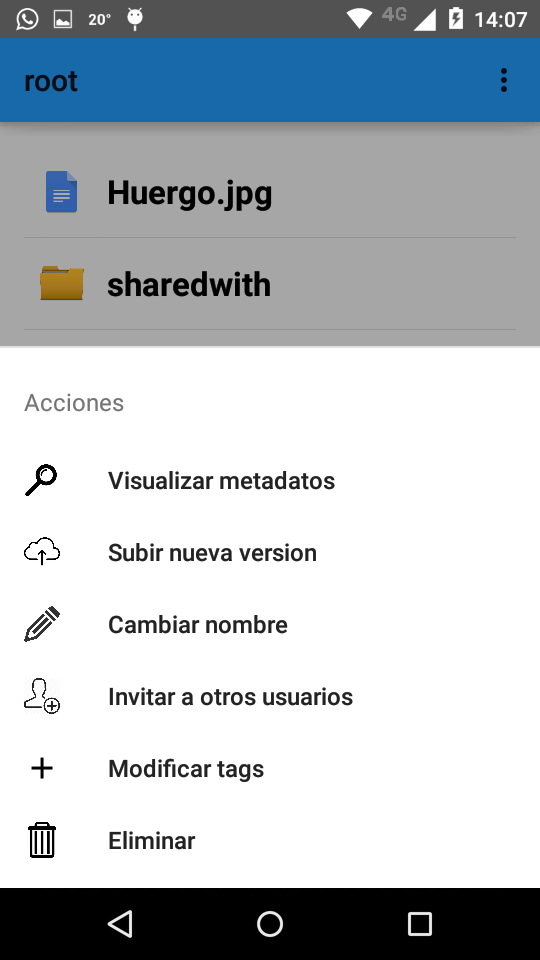
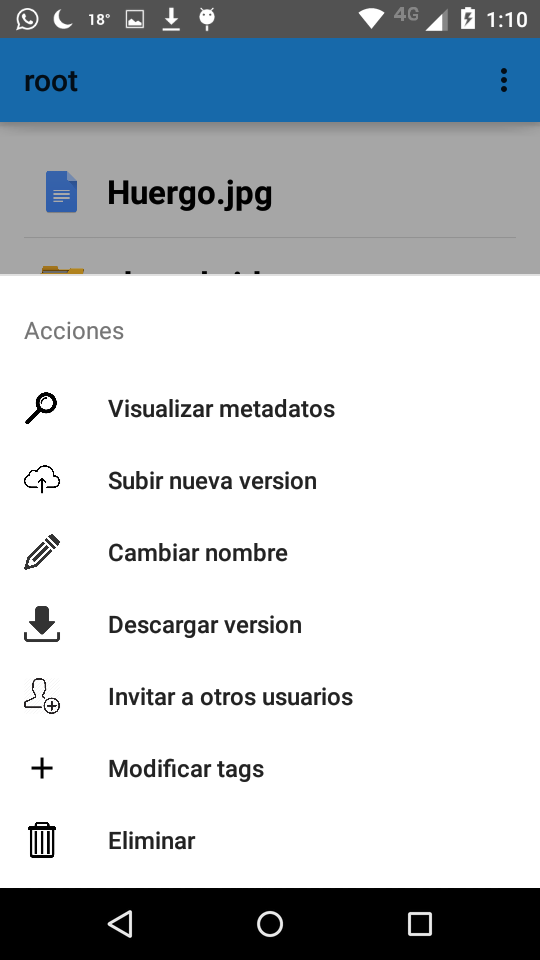
#74 solo falta instalacion

diff --git a/documentacion/manual_usuario/source/archivo.rst b/documentacion/manual_usuario/source/archivo.rst
@@ -1,23 +1,165 @@
 Acciones sobre archivo
 ======================
 
+Hay 2 formas de interactuar con 1 archivo:
+
+*	**Dandole un toque**
+*	**Manteniendo presionado**
+
+**Un toque equivale a abrir el archivo**
+
+**Mantener presionado despliega un menu con opciones**
+
+.. warning:: No se pueden modificar el contenido de archivos que se encuentran en la carpeta **trash**! Al mantener presionado sobre uno de estos archivos eliminados , las opciones que aparecen son Visualizar metadatos o Recuperar
+
+Abrir archivo
+--------------------
+
+Click sobre el archivo que se quiere ver ( no mantener presionado, solo un toque rapido)
+
+.. figure::  abrirArchivo.png
+   :target: _images/abrirArchivo.png
+
+Elegir con que app abrir el archivo ( ver que extension sea compatible con esa aplicación)
+
+.. figure::  archivoAbierto.png
+   :target: _images/archivoAbierto.png
+
+
 Visualizar metadatos
 --------------------
+
+Mantener presionado ( aproximadamente 1/2 segundo ) sobre el archivo
+
+.. figure::  mantenerClickArchivo.png
+   :target: _images/mantenerClickArchivo.png
+
+.. figure::  metadatos0.png
+   :target: _images/metadatos0.png
 
 Modificar nombre
 ----------------
 
+Mantener presionado ( aproximadamente 1/2 segundo ) sobre el archivo
+
+.. figure::  mantenerClickArchivo.png
+   :target: _images/mantenerClickArchivo.png
+
+.. figure::  cambiarNombreArchivo1.png
+   :target: _images/cambiarNombreArchivo1.png
+
+.. figure::  cambiarNombreArchivo2.png
+   :target: _images/cambiarNombreArchivo2.png
+
+.. figure::  cambiarNombreArchivo3.png
+   :target: _images/cambiarNombreArchivo3.png
+
 Modificar tags
 --------------
+
+Mantener presionado ( aproximadamente 1/2 segundo ) sobre el archivo
+
+.. figure::  mantenerClickArchivo.png
+   :target: _images/mantenerClickArchivo.png
+
+.. figure::  cambiarTags0.png
+   :target: _images/cambiarTags0.png
+
+.. figure::  cambiarTags1.png
+   :target: _images/cambiarTags1.png
+
+Se pueden agregar varios tags, escribiendo y luego haciendo click en OK
+
+.. figure::  cambiarTags2.png
+   :target: _images/cambiarTags2.png
+
+Si ahora vamos a ver los metadatos del archivo, vamos a ver los nuevos tags creados recientemente
+
+.. figure::  cambiarTags3.png
+   :target: _images/cambiarTags3.png
 
 Compartir / no compartir archivo
 --------------------------------
 
+Mantener presionado ( aproximadamente 1/2 segundo ) sobre el archivo
+
+.. figure::  mantenerClickArchivo.png
+   :target: _images/mantenerClickArchivo.png
+
+.. figure::  compartirArchivo1.png
+   :target: _images/compartirArchivo1.png
+
+.. figure::  compartirArchivo2.png
+   :target: _images/compartirArchivo2.png
+
+Al confirmar, el archivo le aparecera al otro usuario en su carpeta **sharewith**
+
+
 Subir nueva versión
 -------------------
+
+Mantener presionado ( aproximadamente 1/2 segundo ) sobre el archivo
+
+.. figure::  mantenerClickArchivo.png
+   :target: _images/mantenerClickArchivo.png
+
+Elegimos la imagen de arriba a la izquierda como ejemplo
+
+.. figure::  subirVersion1.png
+   :target: _images/mantenerClickArchivo.png
+
+Un pop up nos informa que se le subio la version al archivo
+
+.. figure::  subirVersion2.png
+   :target: _images/mantenerClickArchivo.png
+
+Si vemos los metadatos, podemos ver que se actualizaron varios campos
+
+*	usuario ultima modificacion
+*	fecha ultima modificacion
+*	numero de version
+
+.. figure::  subirVersion3.png
+   :target: _images/mantenerClickArchivo.png
+
+Si abrimos el archivo Huergo.jpg ( un simple click ) veremos que la imagen ya no es la que era antes
+
+.. figure::  subirVersion4.png
+   :target: _images/mantenerClickArchivo.png
+
+Descargar version
+-----------------
+
+Mantener presionado ( aproximadamente 1/2 segundo ) sobre el archivo
+
+.. figure::  mantenerClickArchivo.png
+   :target: _images/descargarVersion1.png
+
+.. figure::  descargarVersion2.png
+   :target: _images/descargarVersion2.png
+
+Esto nos muestra todas las versiones del archivo ( una por cada vez que fue modificado )
+Al elegir 1 , se descargara esa
 
 Eliminar archivo
 ----------------
 
+Mantener presionado ( aproximadamente 1/2 segundo ) sobre el archivo
+
+.. figure::  mantenerClickArchivo.png
+   :target: _images/mantenerClickArchivo.png
+
+Click eliminar archivo. Inmediatamente se mueve el archivo a la carpeta **trash**
+
 Recuperar archivo eliminado
 ---------------------------
+
+En la carpeta **trash** se encuentran los archivos que fueron eliminados.
+Con un toque, se pueden abrir para visualizar.
+Si se mantiene presionado, se muestran solo estas 2 opciones :
+
+.. figure::  opcionesEnTrash.png
+   :target: _images/opcionesEnTrash.png
+
+Una permite ver los metadatos.
+La otra, recupera el archivo, sacandolo de **trash** y ubicandolo en **recovered**
